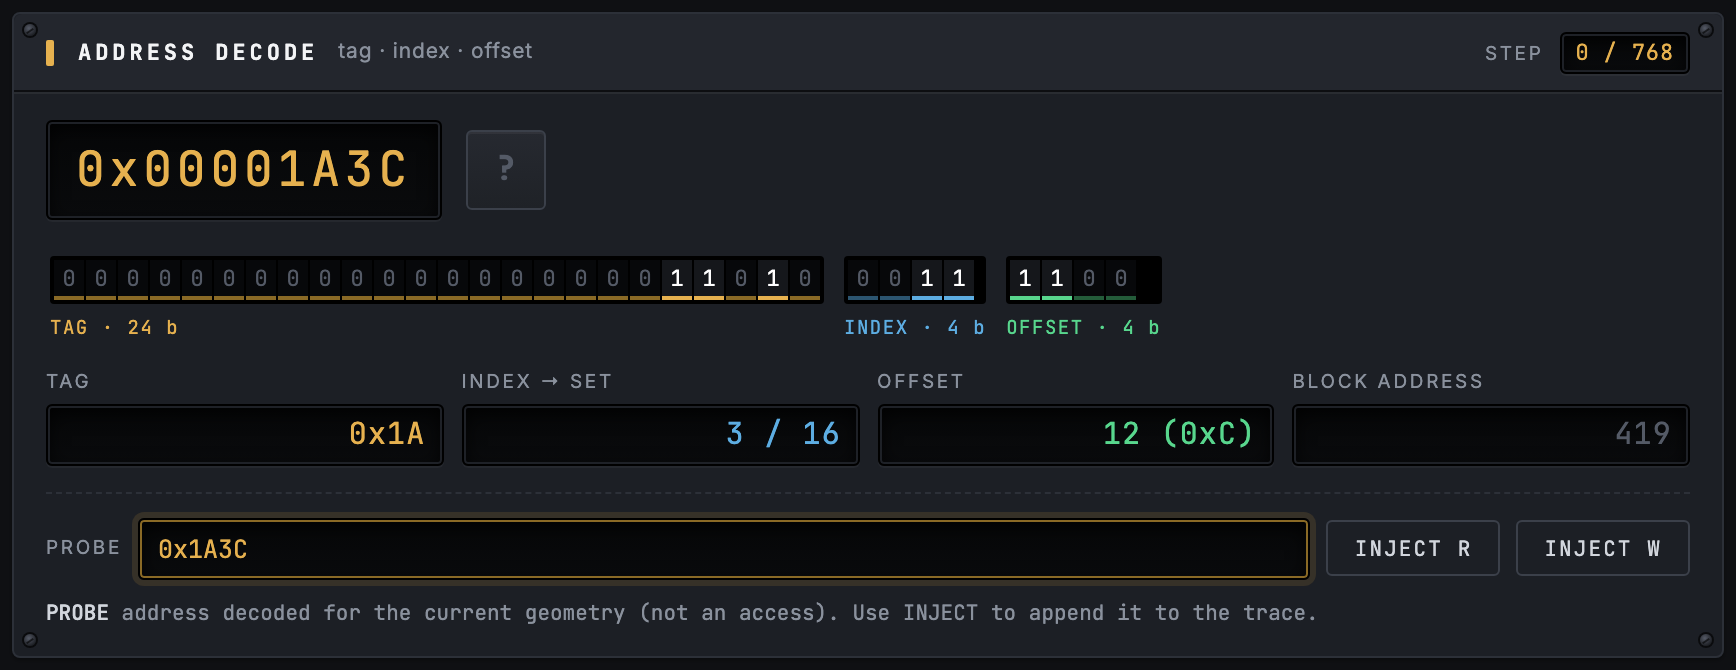
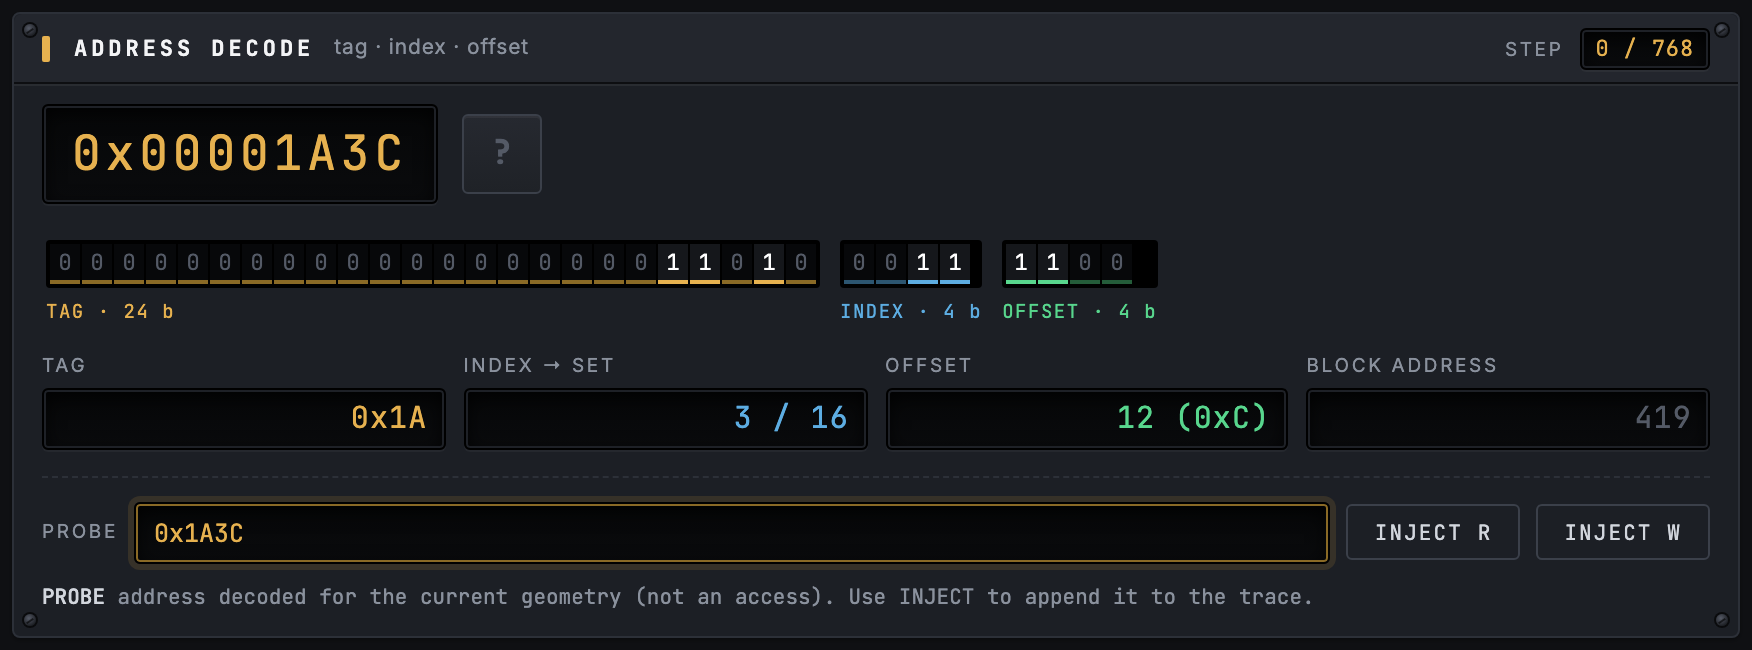
GUI: density pass, decode-to-array connector, array readability
- left rack tightened: smaller section and row spacing, 32px sliders, 26px
  readouts aligned with the geometry LCDs, one-row quick set, compact
  geometry and trace panels
- a dashed connector runs from the INDEX readout down the panel edge into
  the highlighted set row with an arrowhead and a SET label; it follows
  scrolling and points at the edge when the set is out of view
- on a hit the tag readout and the matching cell tag turn green (TAG · MATCH)
- array: alternate row shading, set labels stay fixed while scrolling
  sideways, activity-map squares and a go-to-set box move the detail
  window for large caches

diff --git a/src/web/style.css b/src/web/style.css
@@ -210,11 +210,11 @@ code { font-family: var(--mono); }
   flex: 1;
   display: grid;
   grid-template-columns: 344px minmax(560px, 1fr) 336px;
-  gap: 14px;
-  padding: 14px 18px 18px;
+  gap: 12px;
+  padding: 12px 16px 16px;
   align-items: start;
 }
-.rack { display: flex; flex-direction: column; gap: 14px; min-width: 0; }
+.rack { display: flex; flex-direction: column; gap: 12px; min-width: 0; }
 .rack-right { height: calc(100vh - var(--topbar-h, 58px) - 14px - 14px - 22px); position: sticky; top: calc(var(--topbar-h, 58px) + 14px + 14px); }
 .rack-right .module-fill { flex: 1; min-height: 240px; display: flex; flex-direction: column; }
 
@@ -245,7 +245,7 @@ code { font-family: var(--mono); }
 
 .mod-head {
   display: flex; align-items: center; gap: 10px;
-  padding: 9px 16px 8px 16px;
+  padding: 7px 14px 6px 14px;
   border-bottom: 1px solid #0d0e11;
   box-shadow: 0 1px 0 var(--line);
   background: #23262D;
@@ -259,7 +259,7 @@ code { font-family: var(--mono); }
 .mod-sub { font-size: 10.5px; color: var(--muted); letter-spacing: .04em; min-width: 0; overflow: hidden; text-overflow: ellipsis; white-space: nowrap; }
 .mod-right { margin-left: auto; display: flex; align-items: center; gap: 8px; flex: none; }
 .legend span { white-space: nowrap; }
-.mod-body { padding: 14px 16px; }
+.mod-body { padding: 10px 14px 12px; }
 
 .legend { gap: 12px; font-size: 9.5px; letter-spacing: .1em; color: var(--muted); }
 .legend span { display: inline-flex; align-items: center; gap: 5px; }
@@ -270,7 +270,7 @@ code { font-family: var(--mono); }
 /* ---------------------------------------------------------------- */
 /*  Controls: rocker switches, buttons                                */
 /* ---------------------------------------------------------------- */
-.cfg-row { display: grid; grid-template-columns: 72px 1fr; align-items: center; gap: 8px; margin-bottom: 9px; }
+.cfg-row { display: grid; grid-template-columns: 72px 1fr; align-items: center; gap: 8px; margin-bottom: 6px; }
 .cfg-row .lbl { line-height: 1.1; }
 .seg { display: flex; flex-wrap: wrap; gap: 3px; }
 .seg button {
@@ -329,16 +329,16 @@ code { font-family: var(--mono); }
 
 /* configuration: sections, quick-set, detent sliders, sliding toggles, timing */
 .cfg-section {
-  display: flex; align-items: baseline; gap: 8px; margin: 13px 0 9px; padding-bottom: 5px;
+  display: flex; align-items: baseline; gap: 8px; margin: 9px 0 6px; padding-bottom: 3px;
   border-bottom: 1px solid var(--bezel); font-family: var(--mono); font-size: 9.5px; letter-spacing: .18em; color: var(--muted);
 }
 .cfg-section em { font-style: normal; font-family: var(--sans); font-size: 10px; letter-spacing: .04em; color: var(--dim); }
 .quick-set { display: grid; grid-template-columns: 72px 1fr; align-items: center; gap: 8px; }
-.quick-set .seg-ind { display: grid; grid-template-columns: 1fr 1fr; width: 100%; }
-.quick-set .seg-ind button { padding: 6px 7px; font-size: 9.5px; text-align: center; }
+.quick-set .seg-ind { display: grid; grid-template-columns: repeat(4, 1fr); width: 100%; }
+.quick-set .seg-ind button { padding: 5px 3px; font-size: 9px; text-align: center; letter-spacing: .02em; }
 
 .detent-row { grid-template-columns: 72px 1fr 66px; }
-.detent { position: relative; height: 36px; padding: 2px 4px 0; user-select: none; touch-action: none; cursor: pointer; outline: none; border-radius: 3px; }
+.detent { position: relative; height: 32px; padding: 0 4px; user-select: none; touch-action: none; cursor: pointer; outline: none; border-radius: 3px; }
 .detent:focus-visible { outline: none; box-shadow: 0 0 0 1px var(--amber-dim); }
 .detent .track {
   position: relative; height: 7px; margin: 7px 7px 0; border-radius: 4px;
@@ -360,18 +360,18 @@ code { font-family: var(--mono); }
 }
 .detent .knob::after { content: ""; position: absolute; left: 50%; top: 50%; width: 4px; height: 4px; margin: -2px; border-radius: 50%; background: var(--amber); box-shadow: 0 0 6px var(--amber-glow); }
 .detent:hover .knob, .detent:focus-visible .knob { box-shadow: 0 2px 5px rgba(0,0,0,.7), inset 0 1px 0 rgba(255,255,255,.14), 0 0 0 4px rgba(245,185,66,.12); }
-.detent .scale { position: relative; height: 12px; margin: 5px 7px 0; font-family: var(--mono); font-size: 8.5px; color: var(--dim); }
+.detent .scale { position: relative; height: 11px; margin: 4px 7px 0; font-family: var(--mono); font-size: 8.5px; color: var(--dim); }
 .detent .scale span { position: absolute; transform: translateX(-50%); white-space: nowrap; transition: color .15s, opacity .15s; }
 .detent .scale span.minor { display: none; }
 .detent .scale span.active { color: var(--amber); }
-.readout { text-align: center; font-size: 10.5px; padding: 4px 4px; }
+.readout { text-align: center; font-size: 10.5px; padding: 0 4px; height: 26px; line-height: 24px; }
 
 .seg-ind {
   position: relative; display: inline-flex; flex-wrap: wrap; gap: 0; padding: 2px; border-radius: 3px;
   background: linear-gradient(#0a0b0d, #0f1013); border: 1px solid #000;
   box-shadow: inset 0 1px 3px rgba(0,0,0,.85), 0 1px 0 rgba(255,255,255,.04);
 }
-.seg-ind button { position: relative; z-index: 1; background: transparent; border: 1px solid transparent; box-shadow: none; padding: 5px 9px; color: var(--muted); border-radius: 2px; }
+.seg-ind button { position: relative; z-index: 1; background: transparent; border: 1px solid transparent; box-shadow: none; padding: 4px 9px; color: var(--muted); border-radius: 2px; }
 .seg-ind button:hover { color: var(--text); background: rgba(255,255,255,.03); border-color: transparent; }
 .seg-ind button:active { transform: none; }
 .seg-ind button.active { color: var(--amber-hi); background: transparent; border-color: transparent; box-shadow: none; }
@@ -385,6 +385,7 @@ code { font-family: var(--mono); }
 .seg-ind.green .ind { background: linear-gradient(#1a2a20, #152219); border-color: #25503a; box-shadow: inset 0 -2px 0 var(--green); }
 
 .timing-grid { display: grid; grid-template-columns: repeat(3, 1fr); gap: 8px; }
+.timing-grid .num-in { height: 26px; }
 .timing-grid label { display: flex; flex-direction: column; gap: 4px; }
 .timing-grid .num-in { width: 100%; text-align: right; }
 
@@ -392,7 +393,7 @@ code { font-family: var(--mono); }
 /*  Geometry                                                          */
 /* ---------------------------------------------------------------- */
 .geo-schem {
-  display: grid; grid-template-columns: auto 1fr; gap: 6px 12px; align-items: center; margin-bottom: 11px; padding: 10px 12px;
+  display: grid; grid-template-columns: auto 1fr; gap: 6px 12px; align-items: center; margin-bottom: 8px; padding: 8px 10px;
   background: linear-gradient(#060708, #0a0b0d); border: 1px solid #000; border-radius: var(--radius);
   box-shadow: inset 0 0 0 1px var(--lcd-edge), inset 0 3px 10px rgba(0,0,0,.8);
 }
@@ -401,15 +402,15 @@ code { font-family: var(--mono); }
 .schem-grid i.more { background: transparent; border-color: transparent; box-shadow: none; color: var(--dim); font-size: 9px; line-height: 9px; text-align: center; font-style: normal; font-family: var(--mono); }
 .schem-caption { font-family: var(--mono); font-size: 9.5px; color: var(--muted); letter-spacing: .04em; line-height: 1.65; }
 .schem-caption b { color: var(--amber); font-weight: 400; }
-.geo-grid { display: grid; grid-template-columns: repeat(3, 1fr); gap: 7px; margin-bottom: 11px; }
-.geo { display: flex; flex-direction: column; gap: 4px; }
-.geo .lcd { font-size: 14px; text-align: right; }
+.geo-grid { display: grid; grid-template-columns: repeat(3, 1fr); gap: 6px; margin-bottom: 8px; }
+.geo { display: flex; flex-direction: column; gap: 3px; }
+.geo .lcd { font-size: 13px; text-align: right; height: 26px; line-height: 16px; padding: 4px 7px; }
 .bit-ruler {
   display: flex; height: 20px; border: 1px solid #000; border-radius: var(--radius); overflow: hidden;
   background: var(--lcd); font-family: var(--mono); font-size: 9.5px; margin: 5px 0 3px;
   box-shadow: inset 0 0 0 1px var(--lcd-edge);
 }
-.bit-scale { display: flex; font-family: var(--mono); font-size: 8px; color: var(--dim); margin-bottom: 11px; }
+.bit-scale { display: flex; font-family: var(--mono); font-size: 8px; color: var(--dim); margin-bottom: 8px; }
 .bit-scale span { display: flex; justify-content: space-between; padding: 0 3px; overflow: hidden; }
 .bit-scale i { font-style: normal; }
 .bit-ruler span { display: flex; align-items: center; justify-content: center; letter-spacing: .06em; overflow: hidden; white-space: nowrap; }
@@ -425,7 +426,7 @@ code { font-family: var(--mono); }
 /* ---------------------------------------------------------------- */
 /*  Trace source                                                      */
 /* ---------------------------------------------------------------- */
-.tabs { display: flex; gap: 2px; margin-bottom: 11px; border-bottom: 1px solid var(--bezel); }
+.tabs { display: flex; gap: 2px; margin-bottom: 8px; border-bottom: 1px solid var(--bezel); }
 .tab {
   font-family: var(--mono); font-size: 10px; letter-spacing: .1em; padding: 6px 11px;
   background: transparent; border: 0; border-bottom: 2px solid transparent; color: var(--muted); margin-bottom: -1px;
@@ -433,11 +434,11 @@ code { font-family: var(--mono); }
 }
 .tab:hover { color: var(--text); }
 .tab.active { color: var(--amber); border-bottom-color: var(--amber); }
-.preset-list { display: flex; flex-direction: column; gap: 4px; max-height: 262px; overflow: auto; padding-right: 2px; }
+.preset-list { display: flex; flex-direction: column; gap: 3px; max-height: 214px; overflow: auto; padding-right: 2px; }
 .preset {
   display: grid; grid-template-columns: 26px 1fr auto; grid-template-areas: "g name count" "g desc desc"; gap: 2px 9px; align-items: center;
   text-align: left; border-radius: var(--radius);
-  background: var(--panel-2); border: 1px solid var(--bezel); padding: 7px 9px; color: var(--text);
+  background: var(--panel-2); border: 1px solid var(--bezel); padding: 5px 8px; color: var(--text);
   transition: border-color .12s, background .12s, box-shadow .12s;
 }
 .preset .glyph {
@@ -791,6 +792,7 @@ kbd {
   .topbar { gap: 8px 12px; padding: 9px 14px; }
   .brand-sub { display: none; }
   .timing-grid { grid-template-columns: 1fr 1fr; }
+  .quick-set .seg-ind { grid-template-columns: 1fr 1fr; }
   .cfg-row { grid-template-columns: 70px 1fr; }
   .detent-row { grid-template-columns: 70px 1fr 60px; }
   .quick-set { grid-template-columns: 70px 1fr; }
@@ -861,3 +863,33 @@ kbd {
 
 /* access-log filter */
 .log-filter { width: 118px; min-width: 0; flex: none; font-size: 10.5px; padding: 3px 7px; }
+
+/* ---------------------------------------------------------------- */
+/*  Decode -> array connector                                         */
+/* ---------------------------------------------------------------- */
+.rack-center { position: relative; }
+.connector { position: absolute; inset: 0; width: 100%; height: 100%; pointer-events: none; z-index: 4; overflow: visible; }
+.connector path { fill: none; stroke: var(--blue); stroke-width: 1.5; stroke-dasharray: 5 4; opacity: .85; animation: wire 1.2s linear infinite; }
+.connector path.stub { stroke-dasharray: none; animation: none; }
+.connector .head { fill: var(--blue); }
+.connector text { font-family: var(--mono); font-size: 9.5px; fill: var(--blue); letter-spacing: .08em; }
+.connector rect.lblbg { fill: var(--panel); stroke: var(--bezel); }
+@keyframes wire { to { stroke-dashoffset: -18; } }
+.lcd.link { box-shadow: inset 0 0 0 1px var(--blue), inset 0 3px 10px rgba(0,0,0,.85); }
+.lcd.match { color: var(--green); box-shadow: inset 0 0 0 1px #245c3a, inset 0 3px 10px rgba(0,0,0,.85); }
+.cell.tagmatch .tagv { color: var(--green); font-weight: 700; }
+.cell.tagnew .tagv { color: var(--text); }
+@media (prefers-reduced-motion: reduce) { .connector path { animation: none; } }
+
+/* ---------------------------------------------------------------- */
+/*  Cache array readability                                          */
+/* ---------------------------------------------------------------- */
+.set-row.alt { background: rgba(255,255,255,.022); }
+.set-row.alt.current { background: rgba(230,177,79,.06); }
+.set-label, .way-head .set-label { position: sticky; left: 0; z-index: 2; background: #121317; }
+.set-row.alt .set-label { background: #16171b; }
+.set-row.current .set-label { background: #1e1b15; }
+.jump { width: 64px; min-width: 0; flex: none; font-size: 10px; padding: 2px 6px; margin-left: 10px; }
+.window-note { display: flex; align-items: center; gap: 8px; }
+.heat i { cursor: pointer; }
+.heat i:hover { outline: 1px solid var(--muted); outline-offset: 1px; }

diff --git a/src/web/app.js b/src/web/app.js
@@ -31,6 +31,7 @@ const state = {
   sweepMetric: 'hit_ratio',
   sweepView: null,       // what the chart currently shows (for the hover tooltip)
   hiddenSeries: new Set(), // chart series switched off via the legend
+  arrayFocus: null,        // set index the detail window is centred on (large caches), null = follow the access
   presetCache: {},
 };
 
@@ -317,6 +318,7 @@ function rebuildGrid() {
 
 function setStep(n, fromPlay) {
   if (!state.sim) return;
+  state.arrayFocus = null;
   const max = maxStep();
   n = Math.max(0, Math.min(max, n));
   if (n === state.step && !fromPlay) return;
@@ -452,10 +454,11 @@ function bitsHTML(f) {
     grp('idx', f.index_binary, f.index_bits ? `INDEX · ${f.index_bits} b` : 'NO INDEX (FA)') +
     grp('off', f.offset_binary, `OFFSET · ${f.offset_bits} b`);
 }
-function fieldsHTML(f, g) {
+function fieldsHTML(f, g, e) {
+  const hit = e && e.result === 'HIT';
   return `
-    <div class="field"><span class="lbl">TAG</span><span class="lcd">${esc(f.tag_hex)}</span></div>
-    <div class="field"><span class="lbl">INDEX → SET</span><span class="lcd blue">${f.index} / ${g.num_sets}</span></div>
+    <div class="field"><span class="lbl">TAG${hit ? ' · MATCH' : ''}</span><span class="lcd${hit ? ' match' : ''}" id="tagLcd">${esc(f.tag_hex)}</span></div>
+    <div class="field"><span class="lbl">INDEX → SET</span><span class="lcd blue${e ? ' link' : ''}" id="idxLcd">${f.index} / ${g.num_sets}</span></div>
     <div class="field"><span class="lbl">OFFSET</span><span class="lcd green">${f.offset} (${hex(f.offset)})</span></div>
     <div class="field"><span class="lbl">BLOCK ADDRESS</span><span class="lcd dimmed">${f.block_address}</span></div>`;
 }
@@ -487,7 +490,7 @@ function renderDecode() {
   $('#resultBadge').outerHTML = badge ? badge.replace('class="result-badge', `class="result-badge${animBadge ? ' anim' : ''}`) : '<div class="result-badge" id="resultBadge"></div>';
   if (badge) $('.result-badge').id = 'resultBadge';
   $('#bitsOut').innerHTML = f ? bitsHTML(f) : bitsHTML({ tag_binary: '', index_binary: '', offset_binary: '', tag_bits: g.tag_bits, index_bits: g.index_bits, offset_bits: g.offset_bits });
-  $('#fieldsOut').innerHTML = f ? fieldsHTML(f, g) : '';
+  $('#fieldsOut').innerHTML = f ? fieldsHTML(f, g, probeActive ? null : e) : '';
   $('#noteOut').innerHTML = note;
 }
 
@@ -558,6 +561,41 @@ function renderBus(e, pulse) {
     note = parts.length ? parts.join(' · ') : 'no memory traffic';
   }
   $('#busNote').textContent = note;
+}
+
+
+/* ---- decode -> array connector: INDEX readout down the panel edge into the highlighted set ---- */
+function renderConnector() {
+  const svg = $('#connector');
+  if (!svg) return;
+  const e = currentEvent();
+  const idx = $('#idxLcd');
+  const row = e && !isEndSummary() ? $(`#arrayOut .set-row[data-set="${e.set_index}"]`) : null;
+  const probeActive = document.activeElement === $('#probeIn') && $('#probeIn').value.trim();
+  if (!e || !idx || !row || probeActive) { svg.innerHTML = ''; return; }
+  const body = $('#arrayOut').closest('.array-body');
+  const R = svg.getBoundingClientRect(), a = idx.getBoundingClientRect(), b = row.getBoundingClientRect(), v = body.getBoundingClientRect();
+  const label = row.querySelector('.set-label').getBoundingClientRect();
+  const rail = 5;                                   // runs along the left panel edge, never over content
+  const sx = a.left + a.width / 2 - R.left, sy = a.bottom - R.top;
+  const ex = label.left - R.left + 2;
+  let ey = b.top + b.height / 2 - R.top;
+  const vt = v.top - R.top, vb = v.bottom - R.top;
+  const visible = ey >= vt + 6 && ey <= vb - 6;
+  let d = `M${sx.toFixed(1)},${sy.toFixed(1)} V${(sy + 7).toFixed(1)} H${rail}`;
+  let out;
+  if (visible) {
+    d += ` V${ey.toFixed(1)} H${(ex - 8).toFixed(1)}`;
+    out = `<path d="${d}"/><path class="head" d="M${(ex - 8).toFixed(1)},${(ey - 4).toFixed(1)} l7,4 -7,4 z"/>`;
+  } else {
+    const cy = ey < vt ? vt + 6 : vb - 6;           // the set is scrolled out of the window: point at the edge
+    d += ` V${cy.toFixed(1)}`;
+    out = `<path d="${d}"/><path class="head" d="M${rail - 4},${(ey < vt ? cy + 6 : cy - 6).toFixed(1)} l4,${ey < vt ? -6 : 6} 4,${ey < vt ? 6 : -6} z"/>`;
+  }
+  const txt = `SET ${e.set_index}`;
+  const lx = rail + 8, ly = sy + 7 + 12;
+  out += `<rect class="lblbg" x="${lx - 4}" y="${ly - 9}" width="${txt.length * 6.3 + 8}" height="13" rx="2"/><text x="${lx}" y="${ly + 1}">${txt}</text>`;
+  svg.innerHTML = out;
 }
 
 /* ---- trace timeline (top strip) ---- */
@@ -682,18 +720,20 @@ function renderArray() {
     rows = Array.from({ length: g.num_sets }, (_, i) => i);
     $('#heatStrip').hidden = true;
   } else {
-    const center = curSet >= 0 ? curSet : 0;
+    const center = state.arrayFocus !== null ? state.arrayFocus : (curSet >= 0 ? curSet : 0);
     const start = Math.max(0, Math.min(center - 3, g.num_sets - 8));
     rows = Array.from({ length: 8 }, (_, i) => start + i);
     const heat = $('#heatStrip');
     heat.hidden = false;
     heat.innerHTML = `<span class="heat-title">SET ACTIVITY MAP · ${g.num_sets} SETS · ONE SQUARE PER SET · DETAIL WINDOW SHOWS SETS ${start}–${start + 7}</span>` +
-      state.heat.map((h, i) => `<i class="${h}${i === curSet ? ' cur' : ''}" title="set ${i}"></i>`).join('');
+      state.heat.map((h, i) => `<i class="${h}${i === curSet ? ' cur' : ''}" data-set="${i}" title="set ${i} — click to show it in the detail window"></i>`).join('');
   }
   const rowsKey = `${rows[0]}:${rows.length}:${g.ways}`;
   if (arrayView.sim !== state.sim || arrayView.rowsKey !== rowsKey) {
-    out.innerHTML = (g.num_sets > FULL_GRID_MAX_SETS ? `<div class="window-note">DETAIL WINDOW · SETS ${rows[0]}–${rows[rows.length - 1]} OF ${g.num_sets}</div>` : '') +
-      rows.map((s) => `<div class="set-row" data-set="${s}"><span class="set-label">SET ${s}</span>${state.grid[s].map((line, w) => cellHTML(line, g.ways, w)).join('')}</div>`).join('');
+    out.innerHTML = (g.num_sets > FULL_GRID_MAX_SETS ? `<div class="window-note">DETAIL WINDOW · SETS ${rows[0]}–${rows[rows.length - 1]} OF ${g.num_sets}<input class="lcd-input jump" id="jumpSet" type="number" min="0" max="${g.num_sets - 1}" placeholder="go to set" title="Centre the detail window on a set (Enter)"></div>` : '') +
+      rows.map((s, k) => `<div class="set-row${k % 2 ? ' alt' : ''}" data-set="${s}"><span class="set-label">SET ${s}</span>${state.grid[s].map((line, w) => cellHTML(line, g.ways, w)).join('')}</div>`).join('');
+    const jump = $('#jumpSet');
+    if (jump) jump.addEventListener('keydown', (ev) => { if (ev.key === 'Enter') { state.arrayFocus = Math.max(0, Math.min(g.num_sets - 1, Number(jump.value) || 0)); renderArray(); } ev.stopPropagation(); });
     arrayView.sim = state.sim; arrayView.rowsKey = rowsKey;
     const wh = $('#wayHead');
     wh.hidden = false;
@@ -712,6 +752,7 @@ function renderArray() {
       cell.classList.toggle('hitcell', touched && resultCls === 'hitcell');
       cell.classList.toggle('misscell', touched && resultCls === 'misscell');
       cell.classList.toggle('victimcell', touched && resultCls === 'victimcell');
+      cell.classList.toggle('tagmatch', touched && resultCls === 'hitcell');
     });
     let note = row.querySelector('.row-note');
     const evText = isCur && e && e.evicted ? `evicted ${hex(e.evicted.tag)}${e.evicted.dirty ? ' (dirty' + (e.evicted.writeback ? ', written back' : (e.evicted.to_victim ? ', to victim cache' : '')) + ')' : (e.evicted.to_victim ? ' (to victim cache)' : '')}` : '';
@@ -745,6 +786,7 @@ function renderArray() {
     revealIn(out.closest('.array-body'), row, !(state.playing && stepsPerSecond() > 10));
   }
   arrayView.lastStep = state.step;
+  renderConnector();
   // victim cache strip
   const vc = $('#victimOut');
   if (g.victim_entries) {
@@ -1282,6 +1324,9 @@ function wire() {
   $('#btnExportCsv').addEventListener('click', exportCsv);
   $('#sweepMetric').addEventListener('click', () => { if (state.sweep) renderSweep(); });
   $('#logFilter').addEventListener('input', applyLogFilter);
+  $('#heatStrip').addEventListener('click', (e) => { const i = e.target.closest('i[data-set]'); if (i) { state.arrayFocus = Number(i.dataset.set); renderArray(); } });
+  $('#arrayOut').closest('.array-body').addEventListener('scroll', () => renderConnector(), { passive: true });
+  new ResizeObserver(() => renderConnector()).observe($('.rack-center'));
   $('#logOut').addEventListener('click', (e) => { const r = e.target.closest('.log-row'); if (r) { stopPlayback(); setStep(Number(r.dataset.i)); } });
 }
 

diff --git a/src/web/index.html b/src/web/index.html
@@ -107,6 +107,7 @@
 
   <!-- ============================ CENTER RACK ============================ -->
   <section class="rack rack-center">
+    <svg class="connector" id="connector" aria-hidden="true"></svg>
 
     <section class="module" id="modDecode">
       <div class="screws"><i></i><i></i><i></i><i></i></div>
